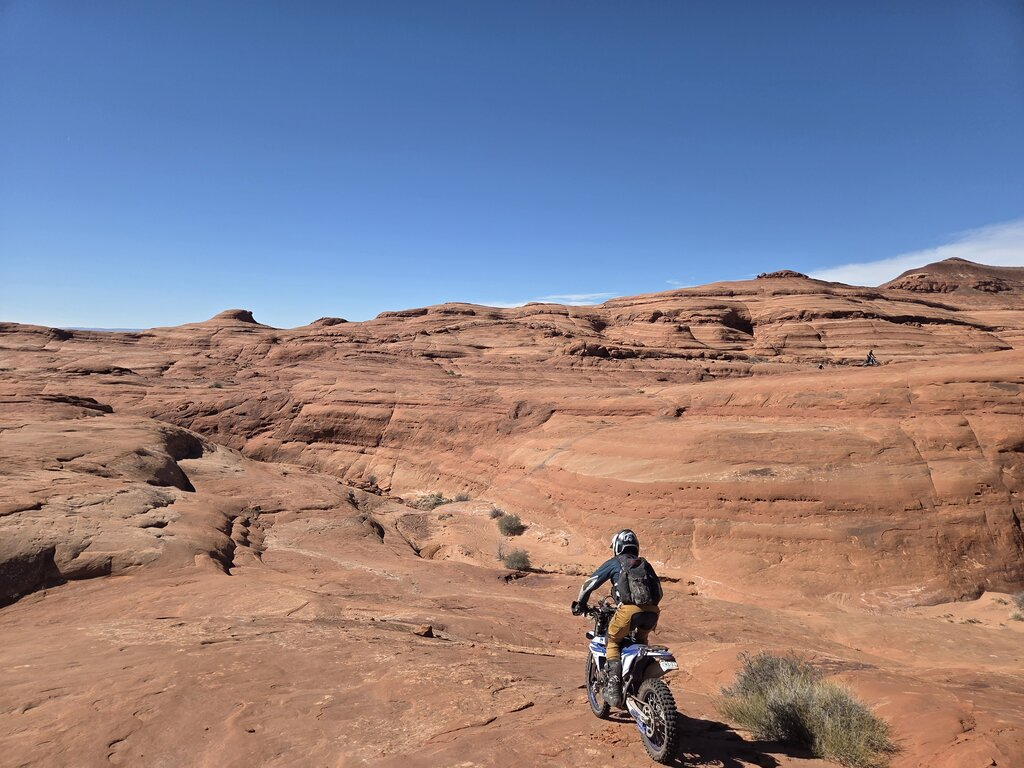
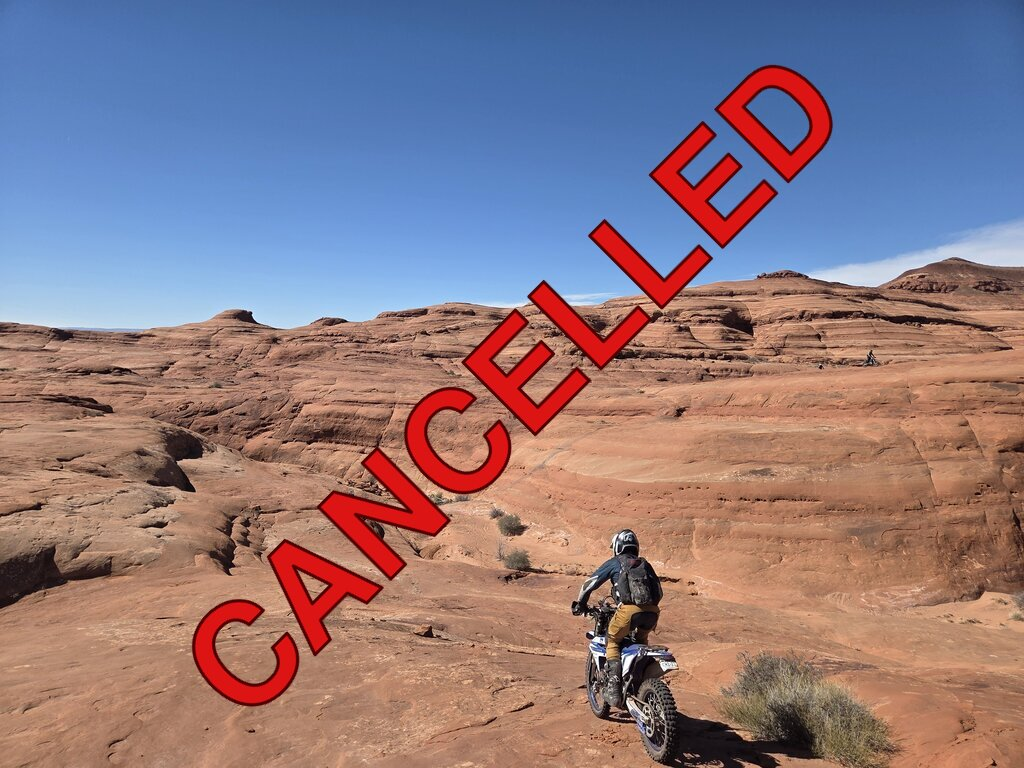
Mark White Wash Trail Marking as cancelled due to conflicts
Overlay "CANCELLED" on event images, update teaser, and add a bold
cancellation note at the top of the post body. A rescheduled trail
marking day is expected later this season.

Changed region(s): [[0.1875, 0.0625, 0.8125, 0.9375]]

diff --git a/_posts/volunteers/2026-05-03-white-wash-trail-marking.md b/_posts/volunteers/2026-05-03-white-wash-trail-marking.md
@@ -3,7 +3,7 @@ layout: volunteer
 sidebar: right
 subheadline: "Help paint the trail markers in the White Wash riding area"
 title: "White Wash Trail Marking"
-teaser: "Mark the trails as they cross Slickrock to help riders navigate the area safely."
+teaser: "Cancelled"
 breadcrumb: true
 tags:
     - volunteer
@@ -23,6 +23,8 @@ volunteer:
     bring: Sturdy hiking shoes/boots, sun protection, water, gloves
     directions: https://www.google.com/maps/place//@38.8048082,-110.0479148,643m/data=!3m2!1e3!4b1?entry=ttu&g_ep=EgoyMDI2MDQxNS4wIKXMDSoASAFQAw%3D%3D
 ---
+**Cancelled due to conflicts, look for a rescheduled trail marking day later this season.**
+
 This is for a work party to help Clif Koontz with Ride with Respect organization in Moab paint the lines on a few trails in the White Wash area. We are hoping to find 6 volunteers for this work party (realize it is a drive), need at least 4 to make it work!
 
 Please contact [Clif](mailto:clif@ridewithrespect.org) to confirm if you can make it.
